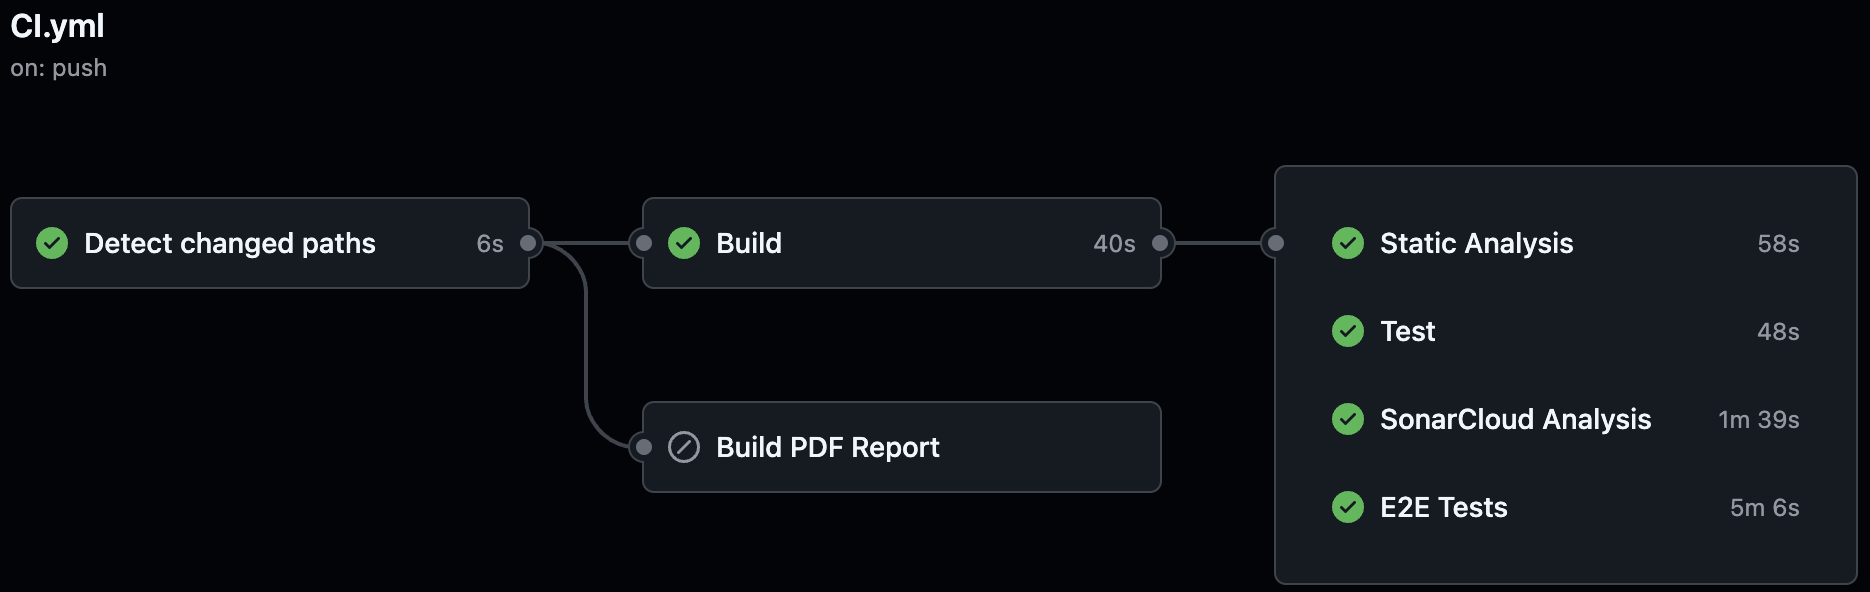
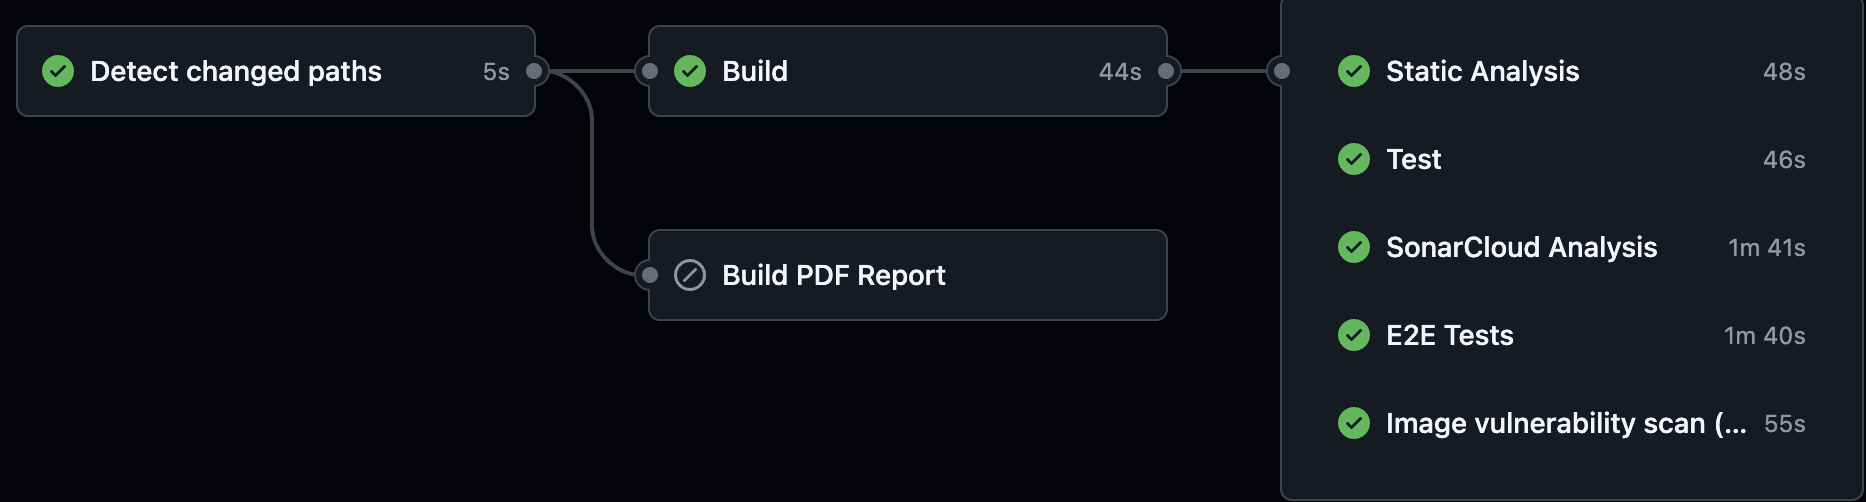
small repport change

diff --git a/Report/tex/02_process_perspective.tex b/Report/tex/02_process_perspective.tex
@@ -145,7 +145,7 @@ We did not have the opportunity to implement hardened docker images as it is a p
     \item \textbf{GitHub Secrets} — database connection strings and API keys are stored as encrypted secrets and injected at deploy time.
     \item \textbf{Firewall} — inbound and outbound traffic on both application droplets and the database is restricted to only the ports and sources required.
     \item \textbf{TLS/HTTPS} — traffic to the application is encrypted using TLS Through the Nginx load balancer using Certbot.
-    \item \textbf{Static code analysis} — SonarCloud is used to identify security vulnerabilities in the codebase/pipelines.
+    \item \textbf{Static code analysis} — SonarCloud and trivy are used to identify security vulnerabilities in the codebase/pipelines/docker images.
 \end{itemize}
 
 \noindent Static code analysis is integrated in the CI pipeline using \textbf{SonarCloud}.
@@ -174,6 +174,7 @@ with only two of five members actively contributing, there was not time to addre
 \\\\
 \noindent The application is deployed as a \textbf{Docker Swarm} stack with \textbf{2 replicas} hosted as 2 seperate \textbf{DigtalOcean droplets} as can be seen in Fig:\ref{fig:deployment}.
 our load balencer distributes traffic across replicas, and automatically reroutes requests away from any node that becomes unavailable/crash.
+The load balencer performs health checks on the replicas using heartbeats through keepalived, and if a replica becomes unavailable it is automatically removed from the load balencer until it becomes healthy again. 
 Crashed containers are restarted automatically via the on-failure restart policy.
 \\\\
 \noindent the application uses a \textbf{Redis} instance shared between all nodes which caches data between replica nodes, which ensures consistent returned data regardless of which replica handles the request.
